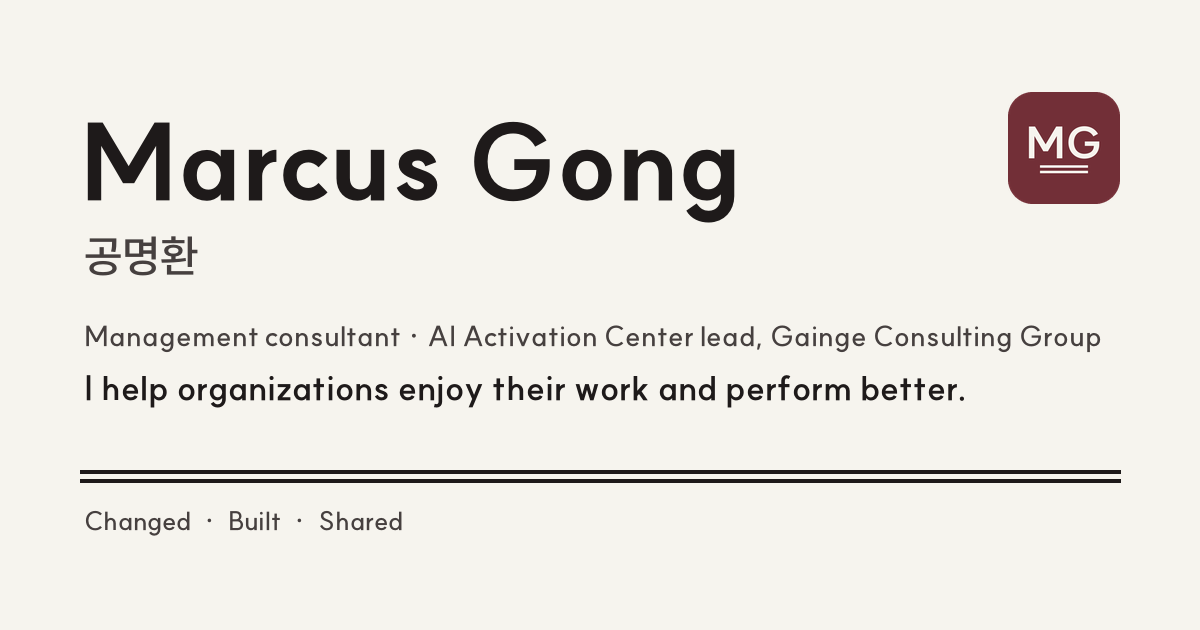
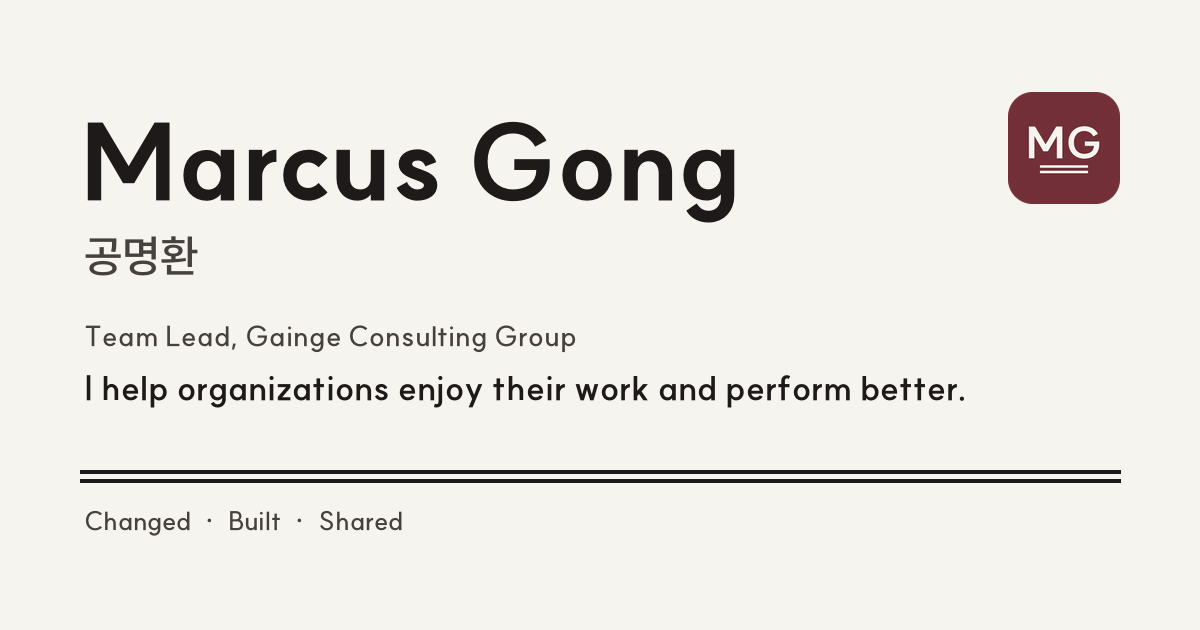
Update biopage 2026-10-20 23:43

Changed region(s): [[0.0617, 0.5127, 0.925, 0.573]]

diff --git a/index.html b/index.html
@@ -5,21 +5,21 @@
   <meta name="viewport" content="width=device-width, initial-scale=1, viewport-fit=cover">
   <meta http-equiv="Content-Security-Policy" content="default-src 'self'; script-src 'self'; style-src 'self' https://cdn.jsdelivr.net https://fonts.googleapis.com; font-src https://cdn.jsdelivr.net https://fonts.gstatic.com; img-src 'self' data:; connect-src 'self'; base-uri 'self'; form-action 'none'">
   <meta name="referrer" content="strict-origin-when-cross-origin">
-  <title>공명환 Marcus Gong · 경영 컨설턴트</title>
-  <meta name="description" content="경영 컨설턴트 · 가인지컨설팅그룹 AI Activation Center 리드. AAR(회고) 작성 코칭 인당 2시간 → 전체 20분. 웹 서비스 운영 14개. 업무용 AI 도구 제작 342개. 영어 경영 에세이 12편.">
+  <title>공명환 Marcus Gong · 가인지컨설팅그룹 팀장</title>
+  <meta name="description" content="가인지컨설팅그룹 팀장. AAR(회고) 작성 코칭 인당 2시간 → 전체 20분. 웹 서비스 운영 14개. 업무용 AI 도구 제작 342개. 영어 경영 에세이 12편.">
   
   <link rel="canonical" href="https://cusgong.github.io/marcus/">
   <link rel="alternate" hreflang="ko" href="https://cusgong.github.io/marcus/">
   <link rel="alternate" hreflang="en" href="https://cusgong.github.io/marcus/en/">
   <link rel="alternate" hreflang="x-default" href="https://cusgong.github.io/marcus/">
   <meta property="og:type" content="profile">
-  <meta property="og:title" content="공명환 Marcus Gong · 경영 컨설턴트">
-  <meta property="og:description" content="경영 컨설턴트 · 가인지컨설팅그룹 AI Activation Center 리드. AAR(회고) 작성 코칭 인당 2시간 → 전체 20분. 웹 서비스 운영 14개. 업무용 AI 도구 제작 342개. 영어 경영 에세이 12편.">
+  <meta property="og:title" content="공명환 Marcus Gong · 가인지컨설팅그룹 팀장">
+  <meta property="og:description" content="가인지컨설팅그룹 팀장. AAR(회고) 작성 코칭 인당 2시간 → 전체 20분. 웹 서비스 운영 14개. 업무용 AI 도구 제작 342개. 영어 경영 에세이 12편.">
   <meta property="og:url" content="https://cusgong.github.io/marcus/">
   <meta property="og:image" content="https://cusgong.github.io/marcus/og.png">
   <meta property="og:image:width" content="1200">
   <meta property="og:image:height" content="630">
-  <meta property="og:image:alt" content="공명환 Marcus Gong, 경영 컨설턴트 · 가인지컨설팅그룹 AI Activation Center 리드">
+  <meta property="og:image:alt" content="공명환 Marcus Gong, 가인지컨설팅그룹 팀장">
   <meta property="og:locale" content="ko_KR">
   <meta name="twitter:card" content="summary_large_image">
   <meta name="theme-color" content="#722F37">
@@ -34,7 +34,7 @@
   <link rel="stylesheet" href="https://fonts.googleapis.com/css2?family=Noto+Serif+KR:wght@700&text=%2C.%3A%E2%80%98%E2%80%99%E2%80%9C%E2%80%9D&display=swap">
   <link rel="stylesheet" href="https://cdn.jsdelivr.net/gh/sun-typeface/SUIT@2/fonts/variable/woff2/SUIT-Variable.css">
   <link rel="stylesheet" href="styles.css?v=124dfdd40a">
-  <script type="application/ld+json">{"@context":"https://schema.org","@type":"ProfilePage","dateModified":"2026-10-18","inLanguage":"ko","mainEntity":{"@type":"Person","@id":"https://cusgong.github.io/marcus/#person","name":"Marcus Gong","alternateName":["공명환","Marcus (Myunghwan) Gong","Myunghwan Gong"],"jobTitle":"경영 컨설턴트","description":"조직이 더 즐겁게, 더 높은 성과로 일하도록 돕습니다.","worksFor":{"@type":"Organization","name":"Gainge Consulting Group","alternateName":"가인지컨설팅그룹"},"knowsAbout":["organizational design","performance management","AI adoption in organizations","management consulting"],"url":"https://cusgong.github.io/marcus/","sameAs":["https://bestuff.org/about/","https://www.linkedin.com/in/marcus-gong-pmp%C2%AE-1a3879230/"]}}</script>
+  <script type="application/ld+json">{"@context":"https://schema.org","@type":"ProfilePage","dateModified":"2026-10-18","inLanguage":"ko","mainEntity":{"@type":"Person","@id":"https://cusgong.github.io/marcus/#person","name":"Marcus Gong","alternateName":["공명환","Marcus (Myunghwan) Gong","Myunghwan Gong"],"jobTitle":"팀장","description":"조직이 더 즐겁게, 더 높은 성과로 일하도록 돕습니다.","worksFor":{"@type":"Organization","name":"Gainge Consulting Group","alternateName":"가인지컨설팅그룹"},"knowsAbout":["organizational design","performance management","AI adoption in organizations","management consulting"],"url":"https://cusgong.github.io/marcus/","sameAs":["https://bestuff.org/about/","https://www.linkedin.com/in/marcus-gong-pmp%C2%AE-1a3879230/"]}}</script>
 </head>
 <body>
 <a class="skip" href="#works">성과 펼침면으로 건너뛰기</a>
@@ -55,7 +55,7 @@
   <div class="lede">
     
     <p class="line"><span>조직이 더 즐겁게,</span> <span>더 높은 성과로 일하도록 돕습니다.</span></p>
-    <p class="role">경영 컨설턴트 · 가인지 <span lang="en" class="nw">AI Activation Center</span> 리드</p>
+    <p class="role">가인지컨설팅그룹 팀장</p>
   </div>
   <ol class="heads" aria-label="대표 숫자">
     <li><a href="#s-aar-gpts"><span class="h-bf"><span class="sr">이전 </span><s><span>인당</span> <b>2</b><span>시간</span></s></span><span class="h-fig"><span class="sr">이후 </span><em>전체</em><b>20</b><small>분</small></span><span class="h-lab">AAR(회고) 작성 코칭</span></a></li>
@@ -359,13 +359,13 @@
 
 <section class="sec now" aria-labelledby="h-now">
   <h2 class="vlabel" id="h-now">지금</h2>
-  <ol class="now-l"><li><span class="now-n" aria-hidden="true">01</span><p>가인지 <span lang="en" class="nw">AI Activation Center</span>에서 컨설팅 메뉴를 웹 서비스로 옮기고 있습니다.</p></li><li><span class="now-n" aria-hidden="true">02</span><p>가인지경영세미나 운영 실무를 맡고 있습니다.</p></li><li><span class="now-n" aria-hidden="true">03</span><p>경영 글은 영어로 <span lang="en" class="nw">The Good Stuff</span>에, 한국어로 일판에 모읍니다.</p></li></ol>
+  <ol class="now-l"><li><span class="now-n" aria-hidden="true">01</span><p>가인지컨설팅그룹에서 컨설팅 메뉴를 웹 서비스로 옮기고 있습니다.</p></li><li><span class="now-n" aria-hidden="true">02</span><p>가인지경영세미나 운영 실무를 맡고 있습니다.</p></li><li><span class="now-n" aria-hidden="true">03</span><p>경영 글은 영어로 <span lang="en" class="nw">The Good Stuff</span>에, 한국어로 일판에 모읍니다.</p></li></ol>
 </section>
 
 <section class="sec cv" aria-labelledby="h-cv">
   <h2 class="vlabel" id="h-cv">이력</h2>
   <dl class="colo">
-    <div><dt>소속</dt><dd><span>가인지컨설팅그룹 · <span lang="en" class="nw">AI Activation Center</span> 리드</span></dd></div>
+    <div><dt>소속</dt><dd><span>가인지컨설팅그룹 · 팀장</span></dd></div>
     <div><dt>학력</dt><dd><span><span lang="en" class="nw">Minerva University</span> · <span class="nw">의사결정·응용분석</span> 석사(MDA) 과정</span><span>경기대학교 · 디자인비즈니스, 영어영문학 복수전공</span></dd></div>
     <div><dt>자격</dt><dd><ul class="creds" lang="en"><li>PMP</li><li>TESOL</li><li>Google Project Management</li><li>Google UX Design</li></ul></dd></div>
   </dl>

diff --git a/en/index.html b/en/index.html
@@ -5,21 +5,21 @@
   <meta name="viewport" content="width=device-width, initial-scale=1, viewport-fit=cover">
   <meta http-equiv="Content-Security-Policy" content="default-src 'self'; script-src 'self'; style-src 'self' https://cdn.jsdelivr.net https://fonts.googleapis.com; font-src https://cdn.jsdelivr.net https://fonts.gstatic.com; img-src 'self' data:; connect-src 'self'; base-uri 'self'; form-action 'none'">
   <meta name="referrer" content="strict-origin-when-cross-origin">
-  <title>Marcus Gong (공명환) · Management consultant</title>
-  <meta name="description" content="Management consultant · AI Activation Center lead, Gainge Consulting Group. After-action review coaching: 2 hrs each → 20 min total. 14 web services live.">
+  <title>Marcus Gong (공명환) · Team Lead, Gainge Consulting Group</title>
+  <meta name="description" content="Team Lead, Gainge Consulting Group. After-action review coaching: 2 hrs each → 20 min total. 14 web services live. 342 AI tools built. 12 essays published.">
   
   <link rel="canonical" href="https://cusgong.github.io/marcus/en/">
   <link rel="alternate" hreflang="ko" href="https://cusgong.github.io/marcus/">
   <link rel="alternate" hreflang="en" href="https://cusgong.github.io/marcus/en/">
   <link rel="alternate" hreflang="x-default" href="https://cusgong.github.io/marcus/">
   <meta property="og:type" content="profile">
-  <meta property="og:title" content="Marcus Gong (공명환) · Management consultant">
-  <meta property="og:description" content="Management consultant · AI Activation Center lead, Gainge Consulting Group. After-action review coaching: 2 hrs each → 20 min total. 14 web services live.">
+  <meta property="og:title" content="Marcus Gong (공명환) · Team Lead, Gainge Consulting Group">
+  <meta property="og:description" content="Team Lead, Gainge Consulting Group. After-action review coaching: 2 hrs each → 20 min total. 14 web services live. 342 AI tools built. 12 essays published.">
   <meta property="og:url" content="https://cusgong.github.io/marcus/en/">
   <meta property="og:image" content="https://cusgong.github.io/marcus/og-en.png">
   <meta property="og:image:width" content="1200">
   <meta property="og:image:height" content="630">
-  <meta property="og:image:alt" content="Marcus Gong (공명환), Management consultant · AI Activation Center lead, Gainge Consulting Group">
+  <meta property="og:image:alt" content="Marcus Gong (공명환), Team Lead, Gainge Consulting Group">
   <meta property="og:locale" content="en_US">
   <meta name="twitter:card" content="summary_large_image">
   <meta name="theme-color" content="#722F37">
@@ -34,7 +34,7 @@
   <link rel="stylesheet" href="https://fonts.googleapis.com/css2?family=Noto+Serif+KR:wght@700&text=%2C.%3A%E2%80%98%E2%80%99%E2%80%9C%E2%80%9D&display=swap">
   <link rel="stylesheet" href="https://cdn.jsdelivr.net/gh/sun-typeface/SUIT@2/fonts/variable/woff2/SUIT-Variable.css">
   <link rel="stylesheet" href="../styles.css?v=124dfdd40a">
-  <script type="application/ld+json">{"@context":"https://schema.org","@type":"ProfilePage","dateModified":"2026-10-18","inLanguage":"en","mainEntity":{"@type":"Person","@id":"https://cusgong.github.io/marcus/#person","name":"Marcus Gong","alternateName":["공명환","Marcus (Myunghwan) Gong","Myunghwan Gong"],"jobTitle":"Management consultant","description":"I help organizations enjoy their work and perform better.","worksFor":{"@type":"Organization","name":"Gainge Consulting Group","alternateName":"가인지컨설팅그룹"},"knowsAbout":["organizational design","performance management","AI adoption in organizations","management consulting"],"url":"https://cusgong.github.io/marcus/","sameAs":["https://bestuff.org/about/","https://www.linkedin.com/in/marcus-gong-pmp%C2%AE-1a3879230/"]}}</script>
+  <script type="application/ld+json">{"@context":"https://schema.org","@type":"ProfilePage","dateModified":"2026-10-18","inLanguage":"en","mainEntity":{"@type":"Person","@id":"https://cusgong.github.io/marcus/#person","name":"Marcus Gong","alternateName":["공명환","Marcus (Myunghwan) Gong","Myunghwan Gong"],"jobTitle":"Team Lead","description":"I help organizations enjoy their work and perform better.","worksFor":{"@type":"Organization","name":"Gainge Consulting Group","alternateName":"가인지컨설팅그룹"},"knowsAbout":["organizational design","performance management","AI adoption in organizations","management consulting"],"url":"https://cusgong.github.io/marcus/","sameAs":["https://bestuff.org/about/","https://www.linkedin.com/in/marcus-gong-pmp%C2%AE-1a3879230/"]}}</script>
 </head>
 <body>
 <a class="skip" href="#works">Skip to the spreads</a>
@@ -55,7 +55,7 @@
   <div class="lede">
     
     <p class="line"><span>I help organizations enjoy their work and perform better.</span></p>
-    <p class="role">Management consultant · AI Activation Center lead, Gainge Consulting Group</p>
+    <p class="role">Team Lead, Gainge Consulting Group</p>
   </div>
   <ol class="heads" aria-label="Key figures">
     <li><a href="#s-aar-gpts"><span class="h-bf"><span class="sr">before </span><s><b>2</b> <span>hrs each</span></s></span><span class="h-fig"><span class="sr">after </span><b>20</b><small>min total</small></span><span class="h-lab">after-action review coaching</span></a></li>
@@ -359,13 +359,13 @@
 
 <section class="sec now" aria-labelledby="h-now">
   <h2 class="vlabel" id="h-now">Now</h2>
-  <ol class="now-l"><li><span class="now-n" aria-hidden="true">01</span><p>At Gainge&#39;s AI Activation Center, I am turning consulting programs into web services.</p></li><li><span class="now-n" aria-hidden="true">02</span><p>I help run the Gainge Management Seminar.</p></li><li><span class="now-n" aria-hidden="true">03</span><p>I publish management writing in English at The Good Stuff and in Korean at Ilpan.</p></li></ol>
+  <ol class="now-l"><li><span class="now-n" aria-hidden="true">01</span><p>At Gainge Consulting Group, I am turning consulting programs into web services.</p></li><li><span class="now-n" aria-hidden="true">02</span><p>I help run the Gainge Management Seminar.</p></li><li><span class="now-n" aria-hidden="true">03</span><p>I publish management writing in English at The Good Stuff and in Korean at Ilpan.</p></li></ol>
 </section>
 
 <section class="sec cv" aria-labelledby="h-cv">
   <h2 class="vlabel" id="h-cv">Record</h2>
   <dl class="colo">
-    <div><dt>Affiliation</dt><dd><span>Gainge Consulting Group · AI Activation Center lead</span></dd></div>
+    <div><dt>Affiliation</dt><dd><span>Gainge Consulting Group · Team Lead</span></dd></div>
     <div><dt>Education</dt><dd><span>Minerva University · Master&#39;s program (MDA) in Decision Making and Applied Analytics</span><span>Kyonggi University · Design Business and English Literature (double major)</span></dd></div>
     <div><dt>Credentials</dt><dd><ul class="creds" lang="en"><li>PMP</li><li>TESOL</li><li>Google Project Management</li><li>Google UX Design</li></ul></dd></div>
   </dl>
